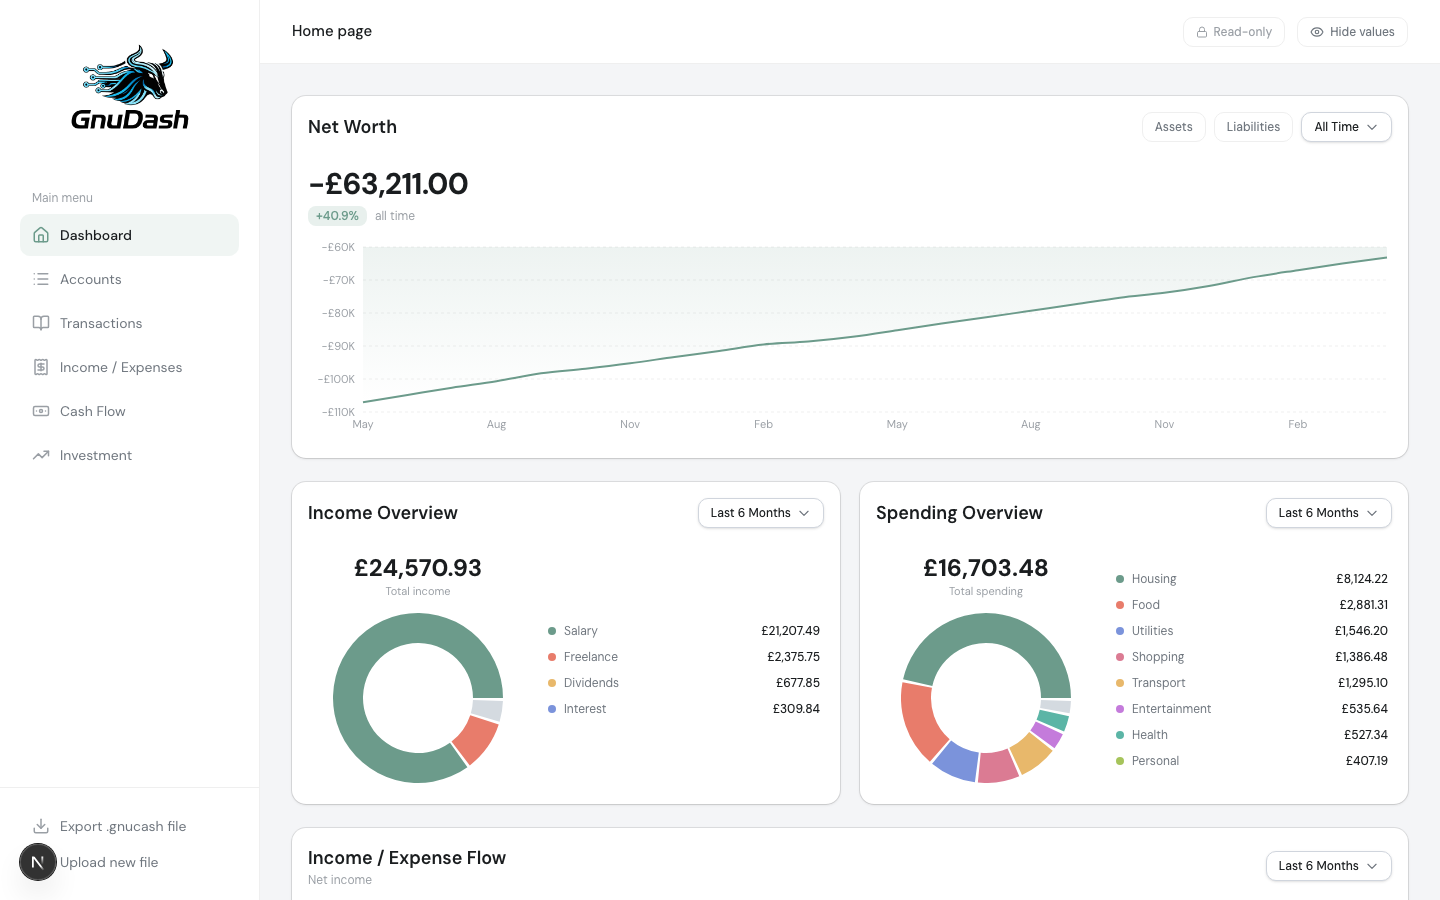
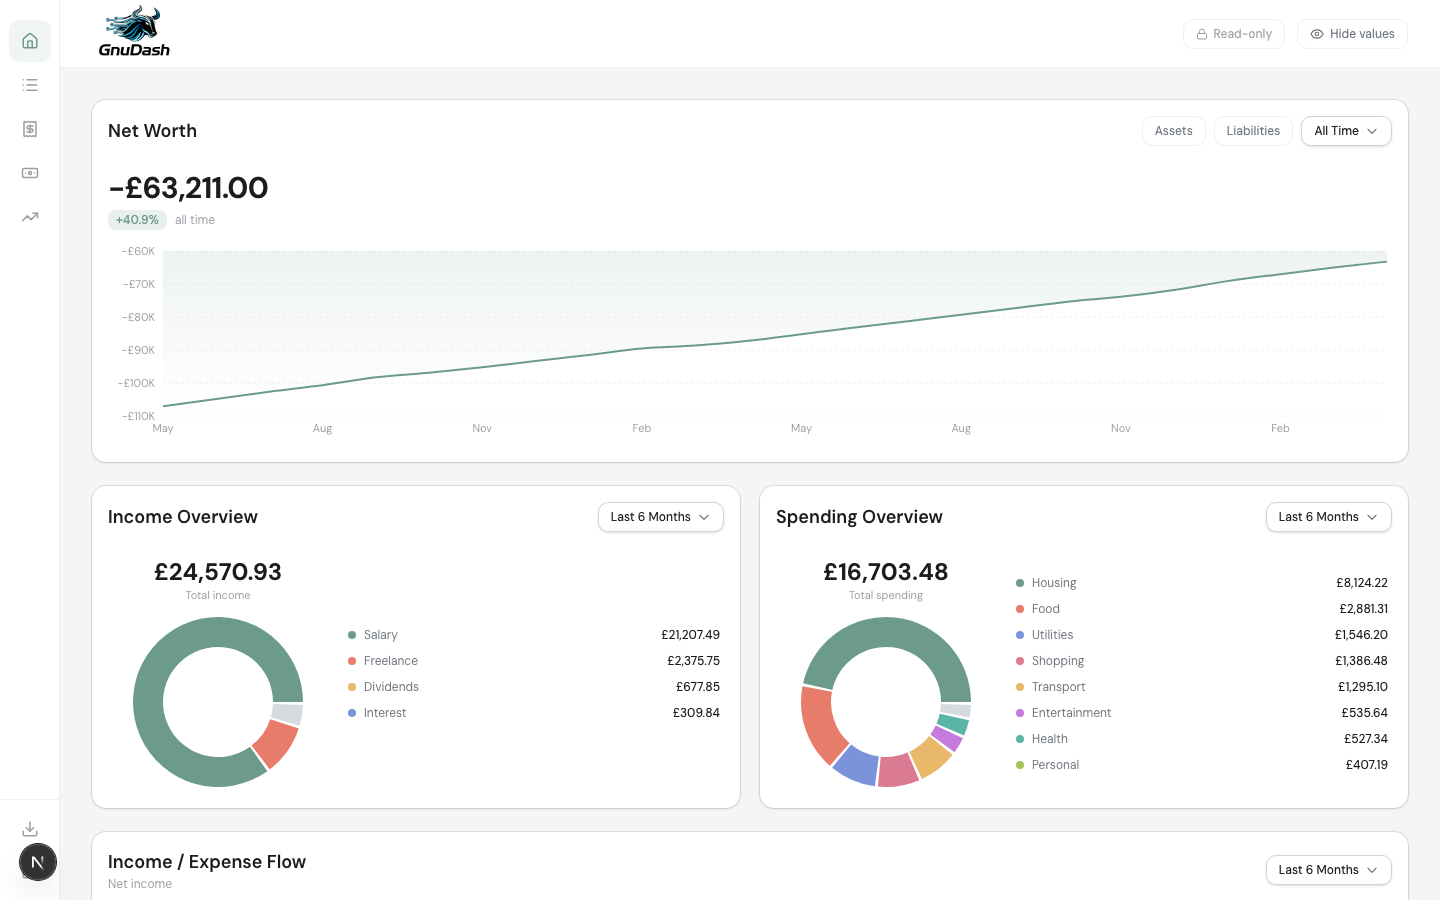
Update README, screenshots, and demo data for current app state
- Populate cash flow category data in demo mode so Cash Flow page
  Sankey and charts are no longer empty
- Retake all screenshots with Playwright to reflect current navigation
  (Transactions page merged into Accounts, Cash Flow is now a full page)
- Update README features list with new sections, add OPFS persistence,
  inline transaction register, and account management
- Update screenshot grid and project structure to match current codebase

diff --git a/app/src/lib/demo-data.ts b/app/src/lib/demo-data.ts
@@ -231,6 +231,45 @@ export function generateDemoData(): DashboardData {
     return { month, income, expenses, net: Math.round((income - expenses) * 100) / 100 };
   });
 
+  // --- Cash flow by category (inflow = income into bank, outflow = expenses from bank) ---
+  // Inflow: income categories flowing into BANK/CASH accounts
+  const monthlyCashInflowByCategory: MonthlyExpenseByCategory[] = monthlyIncomeByCategory.map((entry) => ({
+    month: entry.month,
+    category: entry.category,
+    fullPath: entry.fullPath,
+    pathParts: entry.pathParts,
+    amount: entry.amount,
+  }));
+
+  // Outflow: expense categories flowing out of BANK/CASH accounts
+  const monthlyCashOutflowByCategory: MonthlyExpenseByCategory[] = monthlyExpensesByCategory.map((entry) => ({
+    month: entry.month,
+    category: entry.category,
+    fullPath: entry.fullPath,
+    pathParts: entry.pathParts,
+    amount: entry.amount,
+  }));
+
+  // Color palettes matching the real cash-flow-by-category module
+  const INFLOW_PALETTE = [
+    "#2563eb", "#3b82f6", "#60a5fa", "#93c5fd", "#1d4ed8",
+    "#1e40af", "#3730a3", "#4f46e5", "#6366f1", "#818cf8",
+  ];
+  const OUTFLOW_PALETTE = [
+    "#16a34a", "#22c55e", "#4ade80", "#86efac", "#15803d",
+    "#166534", "#064e3b", "#059669", "#10b981", "#34d399",
+  ];
+
+  const cashInflowCategoryColors: Record<string, string> = {};
+  incomeAccounts.forEach((acc, i) => {
+    cashInflowCategoryColors[acc.name] = INFLOW_PALETTE[i % INFLOW_PALETTE.length];
+  });
+
+  const cashOutflowCategoryColors: Record<string, string> = {};
+  expenseAccounts.forEach((cat, i) => {
+    cashOutflowCategoryColors[cat.name] = OUTFLOW_PALETTE[i % OUTFLOW_PALETTE.length];
+  });
+
   // --- Investments ---
   const investments: InvestmentHolding[] = investmentAccounts.map((inv) => {
     const costBasis = Math.round(inv.shares * inv.costPerShare * 100) / 100;
@@ -468,10 +507,10 @@ export function generateDemoData(): DashboardData {
     cashFlowBudgetData: null,
     ledgerTransactions,
     hasClosingTransactions: false,
-    monthlyCashInflowByCategory: [],
-    monthlyCashOutflowByCategory: [],
-    cashInflowCategoryColors: {},
-    cashOutflowCategoryColors: {},
+    monthlyCashInflowByCategory,
+    monthlyCashOutflowByCategory,
+    cashInflowCategoryColors,
+    cashOutflowCategoryColors,
   };
 }
 

diff --git a/README.md b/README.md
@@ -2,7 +2,7 @@
   <img src="app/public/logo-readme.png" alt="GnuDash" height="140">
 </p>
 
-A personal finance dashboard **for** [GNUCash](https://gnucash.org) users. Upload your `.gnucash` file (SQLite or XML), explore your finances — everything runs in your browser.
+A personal finance dashboard **for** [GNUCash](https://gnucash.org) users. Upload your `.gnucash` file (SQLite or XML), explore and edit your finances — everything runs in your browser.
 
 > GnuDash is an independent, community project and is not affiliated with or endorsed by the GNU Project or GNUCash.
 
@@ -27,52 +27,58 @@ To clear your data, use the dashboard's clear/reset option or clear your browser
 
 ## Features
 
-- **Net Worth** — Track assets minus liabilities over time
-- **Income / Expenses** — Combined page with Sankey flow, category breakdowns, monthly trends, and budget tracking
-- **Cash Flow** — Monthly inflow/outflow bars with net trend line, Sankey diagram, and budget vs actual
-- **Account Balances** — Current balances across all accounts
-- **Investment Portfolio** — Holdings, allocation, performance, and value over time
-- **Sankey Diagrams** — Interactive flow diagrams with drag-and-drop, depth control, category filters, and PNG/SVG export
-- **Budget Tracking** — Budget vs actual with expense/income tabs, YTD variance, drill-down by category
-- **Transaction Ledger** — Searchable, sortable transaction history with split details
-- **Transaction Editing** — Add, edit, and delete transactions with full double-entry enforcement
+### Dashboard & Reports
+- **Net Worth** — Track assets minus liabilities over time with trend charts
+- **Income / Expenses** — Sankey flow diagrams, category breakdowns (pie charts), monthly trend bars, and budget tracking in a single combined view
+- **Cash Flow** — Monthly inflow/outflow bars with net trend line, cash flow Sankey diagram, and budget vs actual
+- **Investment Portfolio** — Holdings table, allocation pie chart, performance metrics, price history, and portfolio value over time
+- **Budget Tracking** — Budget vs actual with expense/income tabs, YTD variance, drill-down by category, and unbudgeted spend detection
+
+### Accounts & Transactions
+- **Chart of Accounts** — Hierarchical account tree with balances, expand/collapse, and account type indicators
+- **Inline Transaction Register** — Double-click any account to open its GnuCash-style transaction register in a tab
+- **Transaction Editing** — Add, edit, and delete transactions with full double-entry enforcement — all inline, no modals
 - **Investment Transactions** — Buy/sell stocks with shares, price, and total (auto-calculates any 2 of 3)
+- **Account Management** — Create and edit accounts with type, currency, and parent assignment
+
+### Engine & Data
 - **Accounting Engine** — Rational arithmetic (no floating point), multi-currency, GNUCash-compatible writes
 - **SQLite & XML** — Supports both GNUCash file formats (including gzip-compressed); XML files open as read-only
+- **OPFS Persistence** — Your database is stored in your browser's Origin Private File System, so it persists across sessions without re-uploading
 - **Multi-Currency** — Switch display currency across all views when your file contains multiple currencies
 - **Closing Transactions** — Toggle to exclude period-end closing entries from reports
 - **Export** — Download your modified `.gnucash` file for use in GNUCash desktop
 - **Privacy Mode** — Toggle to blur sensitive numbers on screen
 - **Demo Mode** — Try the dashboard instantly with realistic sample data
 
-Charts are fully interactive — click any bar or segment to drill down into breakdowns and individual transactions. Transaction editing uses the same GNUCash SQLite schema, so exported files open seamlessly in GNUCash desktop.
+Charts are fully interactive — click any bar or segment to drill down into breakdowns and individual transactions. The accounts page uses a tabbed, GnuCash-style interface where double-clicking an account opens its transaction register in a new tab. Transaction editing uses the same GNUCash SQLite schema, so exported files open seamlessly in GNUCash desktop.
 
 ## Screenshots
 
 <table>
   <tr>
     <td><strong>Dashboard</strong></td>
-    <td><strong>Sankey</strong></td>
+    <td><strong>Income / Expense Sankey</strong></td>
   </tr>
   <tr>
     <td><img src="app/screenshots/02-dashboard.png" width="450" /></td>
-    <td><img src="app/screenshots/09-sankey.png" width="450" /></td>
+    <td><img src="app/screenshots/03-sankey.png" width="450" /></td>
   </tr>
   <tr>
-    <td><strong>Income & Spending</strong></td>
-    <td><strong>Investment</strong></td>
+    <td><strong>Spending Breakdown</strong></td>
+    <td><strong>Cash Flow</strong></td>
   </tr>
   <tr>
-    <td><img src="app/screenshots/03-spending.png" width="450" /></td>
-    <td><img src="app/screenshots/05-investment.png" width="450" /></td>
+    <td><img src="app/screenshots/04-spending.png" width="450" /></td>
+    <td><img src="app/screenshots/06-cashflow.png" width="450" /></td>
   </tr>
   <tr>
-    <td><strong>Transactions</strong></td>
-    <td><strong>Accounts</strong></td>
+    <td><strong>Investment Portfolio</strong></td>
+    <td><strong>Accounts & Transactions</strong></td>
   </tr>
   <tr>
-    <td><img src="app/screenshots/07-transactions.png" width="450" /></td>
-    <td><img src="app/screenshots/08-accounts.png" width="450" /></td>
+    <td><img src="app/screenshots/08-investment.png" width="450" /></td>
+    <td><img src="app/screenshots/09-accounts.png" width="450" /></td>
   </tr>
 </table>
 
@@ -121,10 +127,12 @@ GnuDash is a fully static site — no backend server required. See the **[Deploy
 app/
 ├── src/
 │   ├── app/              # Next.js pages
-│   │   └── (dashboard)/  # Dashboard pages (overview, income-expenses, cash-flow, etc.)
+│   │   └── (dashboard)/  # Dashboard pages (overview, accounts, income-expenses, cash-flow, investment)
 │   ├── components/       # React components
+│   │   ├── account-*/    # Account management (create, edit, tree view)
 │   │   ├── budget/       # Budget tracking components
-│   │   ├── dashboard/    # Dashboard widgets and charts
+│   │   ├── dashboard/    # Dashboard widgets, charts, and sidebar
+│   │   ├── inline-entry/ # GnuCash-style inline transaction entry
 │   │   ├── investment/   # Investment portfolio components
 │   │   ├── sankey/       # Sankey diagram components
 │   │   ├── spending/     # Spending analysis components
@@ -133,7 +141,7 @@ app/
 │   └── lib/
 │       ├── gnucash/      # GNUCash parser and domain logic
 │       │   ├── db/       # Database adapters (WASM + better-sqlite3 for tests)
-│       │   ├── domain/   # Read-only business logic modules (accounts, net-worth, etc.)
+│       │   ├── domain/   # Read-only business logic modules (accounts, net-worth, cash-flow, etc.)
 │       │   ├── engine/   # Accounting engine (write operations)
 │       │   │   ├── builders/    # TransactionBuilder, AccountBuilder
 │       │   │   ├── db/          # WritableDbAdapter (WASM + better-sqlite3)
@@ -143,6 +151,7 @@ app/
 │       │   ├── worker/   # Web Worker for client-side SQLite execution
 │       │   └── shared/   # Shared utilities (dates, account paths)
 │       └── types/        # TypeScript type definitions
+├── scripts/              # Playwright screenshot automation
 docs/
 ├── gnucash-sql-schema.md # GNUCash SQLite schema reference
 └── gnucash-sql-queries.md # SQL query reference
